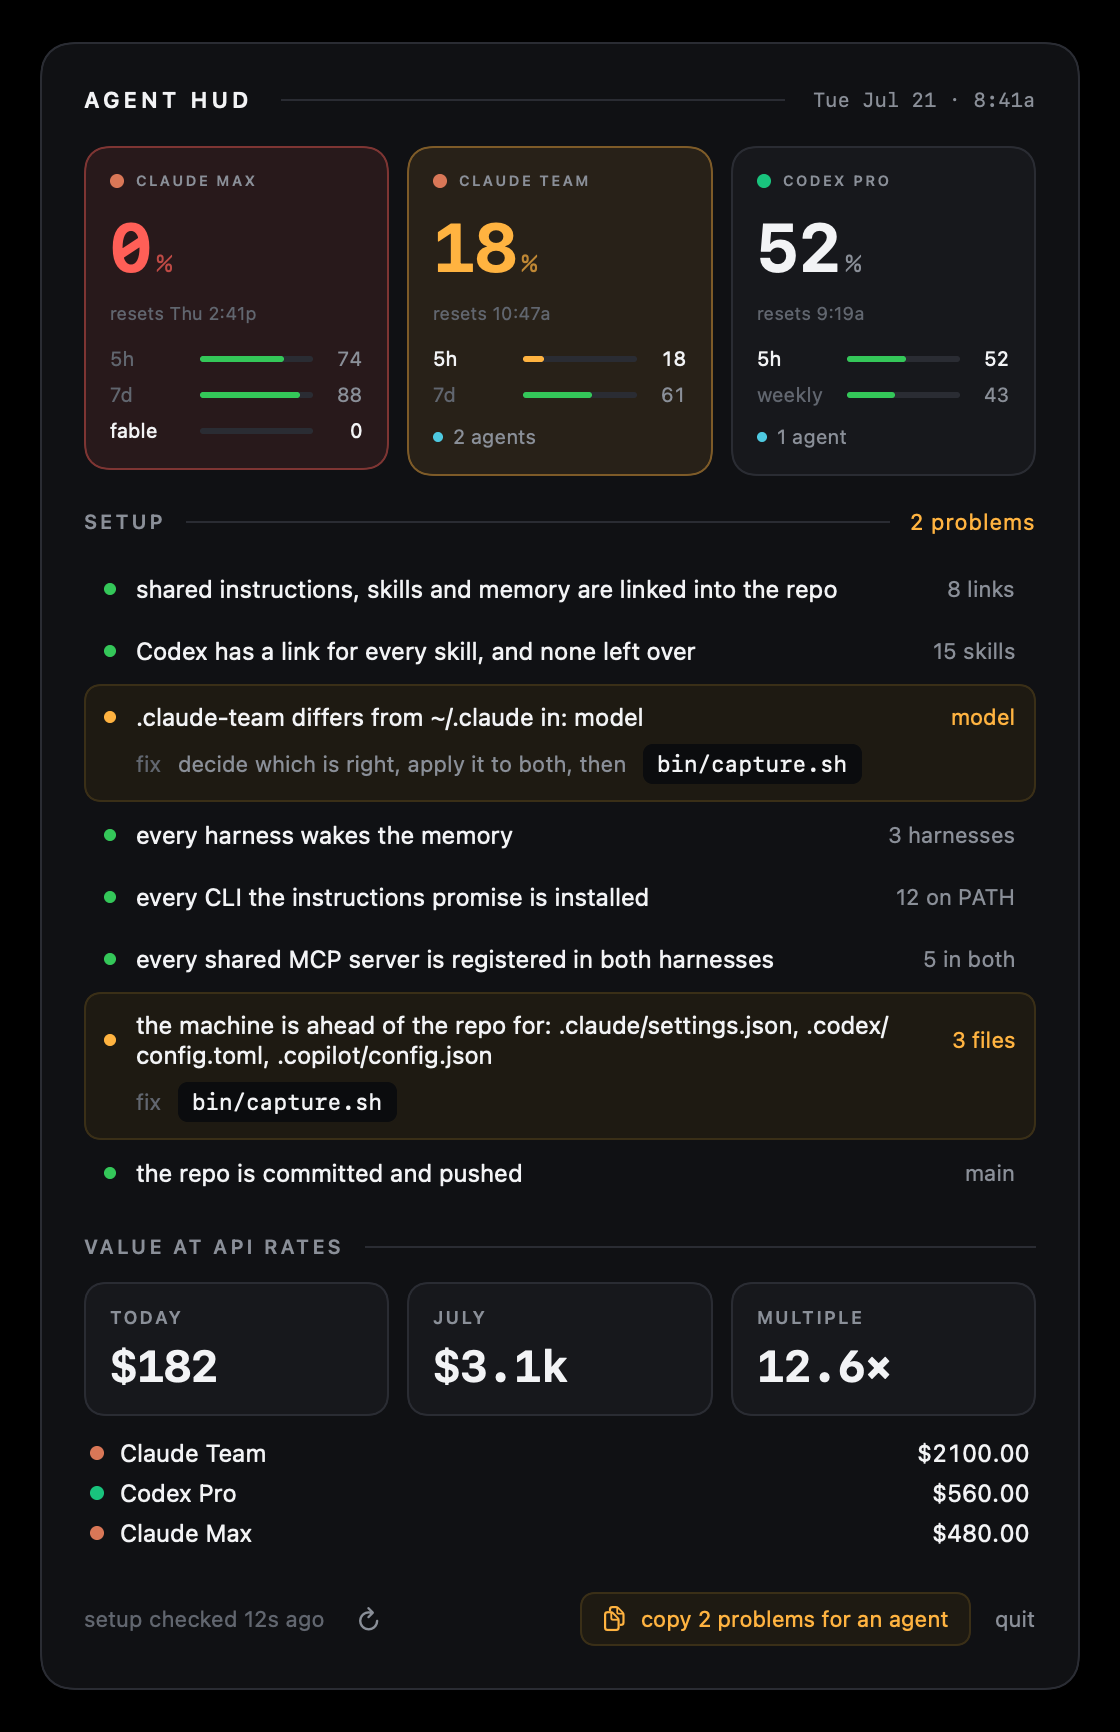
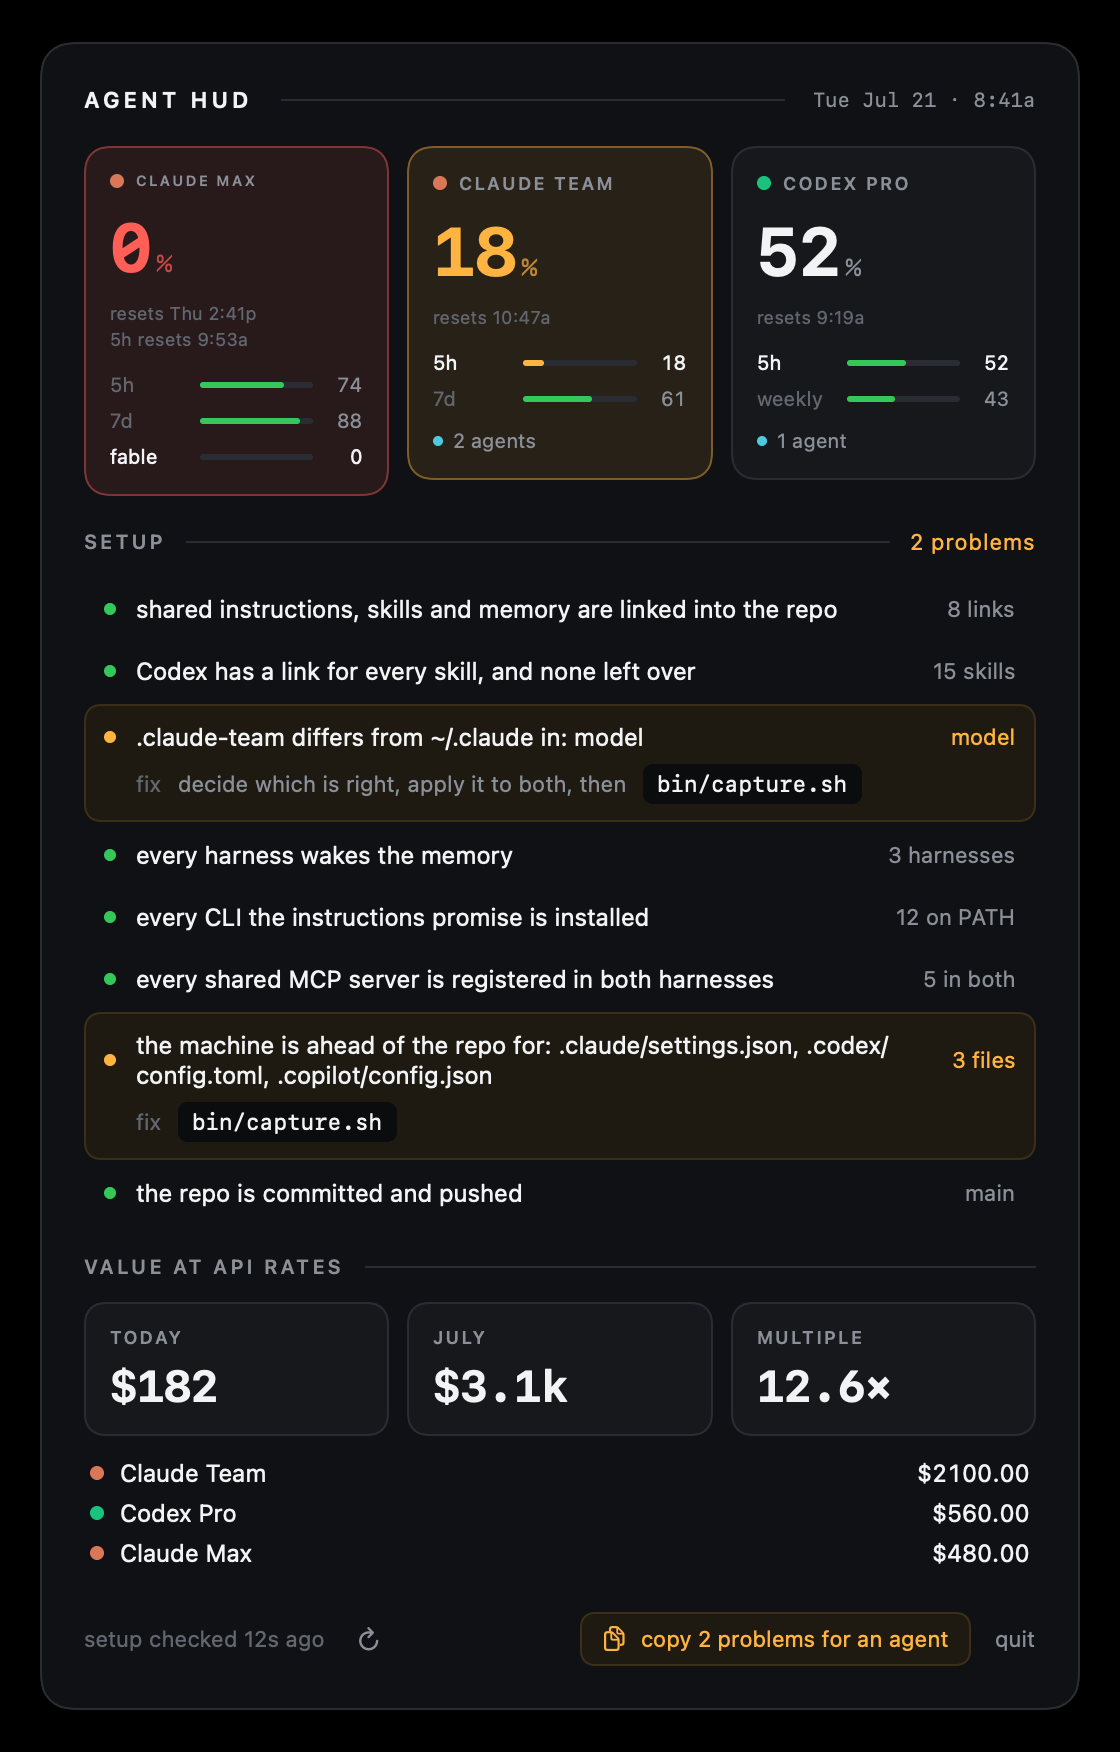
feat: give a pod the 5-hour reset as well as its headline one
A pod carried one clock, for whichever window it headlines. That is the tightest
limit, which on a Claude plan is usually a weekly one, so the line said when the
weekly recovers and the 5-hour session's own reset was nowhere on the card. Those
are different answers, and the session is the one that decides whether you can
keep working in the next hour.

So a pod now shows both when they differ: the headline's reset, then "5h resets
9:53a" beneath it. Skipped when the session already is the headline, so the line
never repeats itself, and skipped for a plan with no session limit, which already
says so.

The two derivations moved into Derived.swift, where the file says view-facing
logic belongs so it can be tested rather than living inside a SwiftUI body.

diff --git a/hud/Sources/HUDCore/PopoverCard.swift b/hud/Sources/HUDCore/PopoverCard.swift
@@ -139,9 +139,7 @@ struct PodView: View {
     let sub: Subscription
     let now: Date
 
-    /// The window the pod headlines. `tightest` is the daemon's own answer; the
-    /// fallbacks only matter for a subscription reporting no percentages at all.
-    private var leadWindow: Window? { sub.tightest ?? sub.sessionWindow ?? sub.windows.first }
+    private var leadWindow: Window? { sub.leadWindow }
     private var leadPct: Int? { leadWindow?.pctLeft }
     private var severity: Color { Theme.severity(pctLeft: leadPct) }
 
@@ -184,10 +182,18 @@ struct PodView: View {
                     .foregroundStyle(isLit ? severity.opacity(0.7) : Theme.muted)
             }
 
-            Text(resetCaption)
-                .font(Theme.label(9))
-                .foregroundStyle(Theme.faint)
-                .lineLimit(1)
+            VStack(alignment: .leading, spacing: 2) {
+                Text(resetCaption)
+                    .font(Theme.label(9))
+                    .foregroundStyle(Theme.faint)
+                    .lineLimit(1)
+                if let sessionCaption {
+                    Text(sessionCaption)
+                        .font(Theme.label(9))
+                        .foregroundStyle(Theme.faint)
+                        .lineLimit(1)
+                }
+            }
 
             VStack(alignment: .leading, spacing: 5) {
                 ForEach(Array(sub.windows.enumerated()), id: \.offset) { _, window in
@@ -239,6 +245,15 @@ struct PodView: View {
     private var resetCaption: String {
         guard let reset = leadWindow?.resetsAt else { return "no reset reported" }
         return "resets \(Fmt.dayClock(reset, now: now))"
+    }
+
+    /// The 5-hour session clock, when the headline is some other window. Weekly
+    /// limits are usually the tightest, but the session is the one that decides
+    /// whether you can keep working in the next hour, and it recovers on a
+    /// completely different schedule.
+    private var sessionCaption: String? {
+        guard let session = sub.secondarySessionWindow, let reset = session.resetsAt else { return nil }
+        return "5h resets \(Fmt.dayClock(reset, now: now))"
     }
 }
 

diff --git a/hud/Tests/HUDCoreTests/HUDViewTests.swift b/hud/Tests/HUDCoreTests/HUDViewTests.swift
@@ -47,6 +47,40 @@ final class HUDViewTests: XCTestCase {
         XCTAssertEqual(sub(windows: []).glanceRings.count, 0)
     }
 
+    // MARK: - What a pod headlines, and the second clock beside it
+
+    func testTheHeadlineIsTheTightestWindow() {
+        var s = sub(windows: [session, weekly, fable])
+        s = Subscription(id: s.id, provider: s.provider, label: s.label, windows: s.windows,
+                         tightest: fable, stale: nil, activeAgents: 0)
+        XCTAssertEqual(s.leadWindow?.kind, "weekly_fable")  // 12% beats 40% and 61%
+    }
+
+    func testTheSessionClockGetsItsOwnLineWhenAWeeklyIsTheHeadline() {
+        // The usual case: a weekly limit is tightest, so the big number is that,
+        // but the 5h window recovers on a completely different schedule and is
+        // what decides whether you can keep working in the next hour.
+        var s = sub(windows: [session, weekly, fable])
+        s = Subscription(id: s.id, provider: s.provider, label: s.label, windows: s.windows,
+                         tightest: fable, stale: nil, activeAgents: 0)
+        XCTAssertEqual(s.secondarySessionWindow?.kind, "session_5h")
+    }
+
+    func testTheSessionClockIsNotRepeatedWhenItIsAlreadyTheHeadline() {
+        var s = sub(windows: [session, weekly])
+        s = Subscription(id: s.id, provider: s.provider, label: s.label, windows: s.windows,
+                         tightest: session, stale: nil, activeAgents: 0)
+        XCTAssertNil(s.secondarySessionWindow)
+    }
+
+    func testAPlanWithNoSessionLimitHasNoSecondClock() {
+        // Codex reports one weekly limit and nothing else.
+        var s = sub(windows: [codexWeekly])
+        s = Subscription(id: s.id, provider: "codex", label: s.label, windows: s.windows,
+                         tightest: codexWeekly, stale: nil, activeAgents: 0)
+        XCTAssertNil(s.secondarySessionWindow)
+    }
+
     func testWeekly7dNeverReturnsFable() {
         XCTAssertEqual(sub(windows: [session, fable]).weekly7dWindow?.kind, nil)
         XCTAssertEqual(sub(windows: [session, fable, weekly]).weekly7dWindow?.kind, "weekly_7d")

diff --git a/hud/Sources/HUDCore/Derived.swift b/hud/Sources/HUDCore/Derived.swift
@@ -52,6 +52,26 @@ extension Subscription {
         sessionWindow ?? tightest ?? windows.first
     }
 
+    /// The window a pod headlines: the one with the least headroom, i.e. the one
+    /// about to bite. The fallbacks only matter for a subscription that reports
+    /// no percentages at all.
+    public var leadWindow: Window? { tightest ?? sessionWindow ?? windows.first }
+
+    /// The 5-hour session window, when the pod is not already headlining it.
+    ///
+    /// The big number is whichever limit is tightest, which is usually a weekly
+    /// one — but the session window is what decides whether you can keep working
+    /// in the next hour, and when it recovers is a different answer from when the
+    /// weekly does. So it earns its own line rather than being reachable only by
+    /// reading the meter rows, which carry percentages and no clock.
+    ///
+    /// Nil when the plan has no session limit (Codex), or when the headline is
+    /// already the session window and a second line would just repeat it.
+    public var secondarySessionWindow: Window? {
+        guard let session = sessionWindow, session.kind != leadWindow?.kind else { return nil }
+        return session
+    }
+
     public var isIdle: Bool { activeAgents <= 0 }
 
     public var hasLimitReached: Bool {
